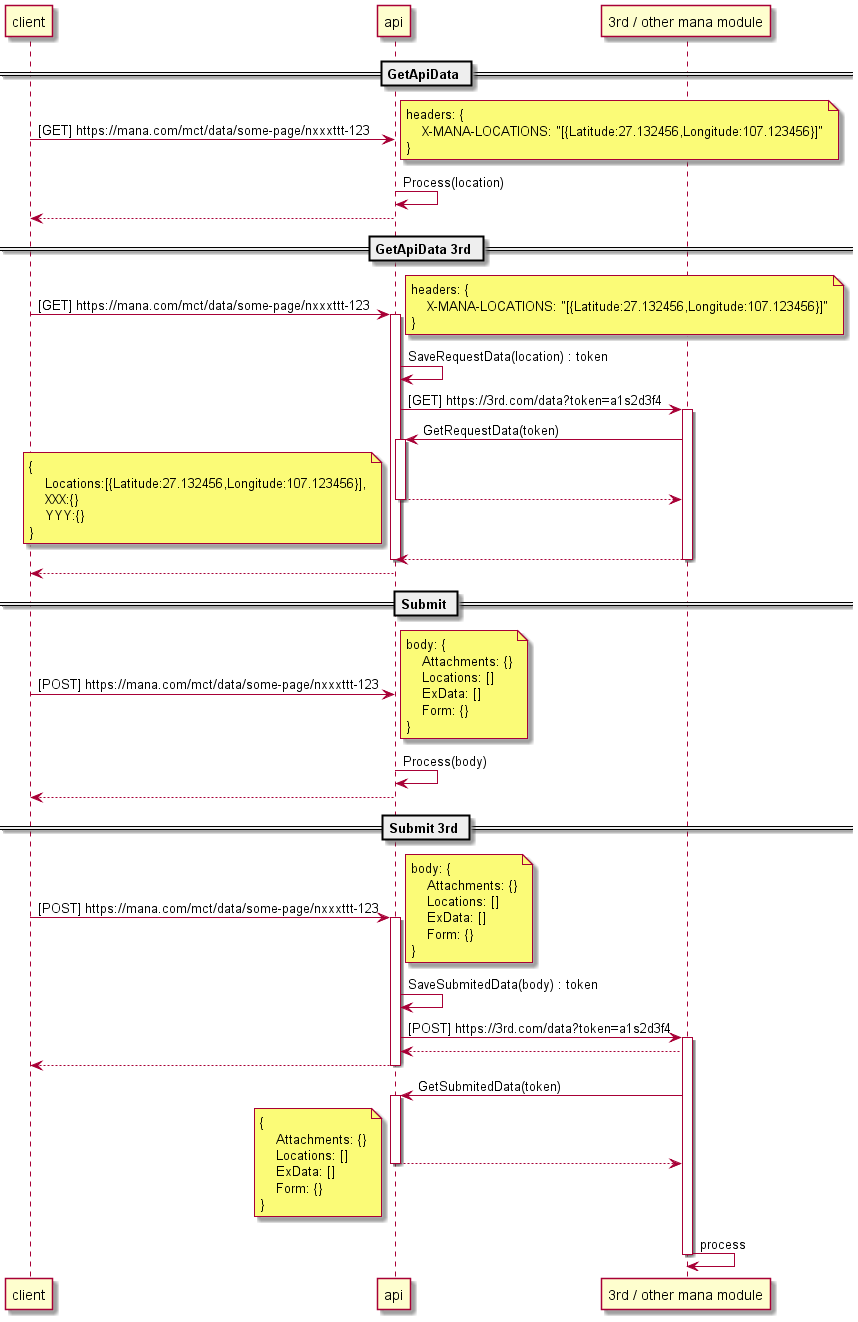
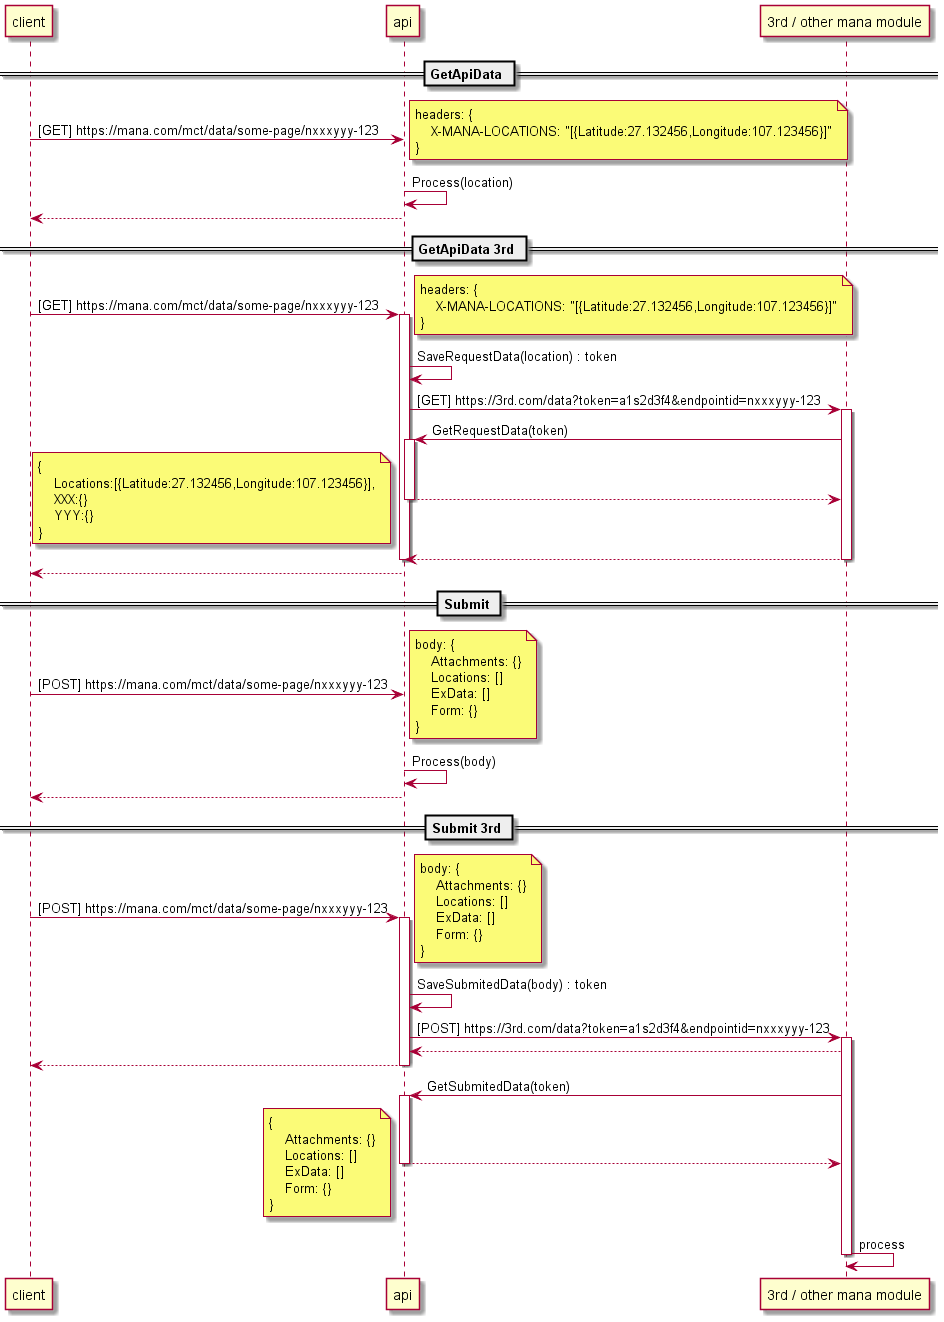
ManaRequestHeader

diff --git a/ManaRequestBody/try-header.md b/ManaRequestBody/try-header.md
@@ -1,0 +1,175 @@
+# Get method
+
+## 1. แยกแต่ละ field
+
+### Request
+```
+GET https://localhost:44332/api/values/sep
+Latitude: 1.111
+Longitude: 1.111
+Latitude: 1.222
+Longitude: 1.222
+```
+
+### API & Model
+```c#
+[HttpGet("sep1")]
+public IActionResult Seperate1([FromHeader] GeoLocationSep locations)
+//public IActionResult Seperate1([FromHeader] double[] Latitude, [FromHeader] double[] Longitude)
+{
+    return Ok();
+}
+public class GeoLocationSep
+{
+    [FromHeader]
+    public double[] Latitude { get; set; }
+    [FromHeader]
+    public double[] Longitude { get; set; }
+}
+```
+
+### pros and cons
+- field แยก
+- ลำดับ + ความหมายไม่ชัดเจน
+- ถ้าทำงานกับ gps 2 อัน ส่วนที่บอกว่า Latitude คู่กับ Longitude ไหนจะไม่ชัดเจน
+
+## 2. แยกแต่ละ field ใช้เลขกำกับ
+
+### Request
+```
+GET https://localhost:44332/api/values/sep2
+Latitude1: 1.111
+Longitude1: 1.111
+Latitude2: 1.222
+Longitude2: 1.222
+```
+### API & Model
+```c#
+[HttpGet("sep2")]
+public IActionResult Seperate2(
+    [FromHeader] string Latitude1, [FromHeader] string Longitude1, 
+    [FromHeader] string Latitude2, [FromHeader] string Longitude2)
+{
+    return Ok();
+}
+```
+
+### pros and cons
+- field แยกชัดเจน
+- parameter ที่ api รวมเป็น class ไม่ได้ เลยดูรก
+
+## 3. lat&lon array
+
+### Request
+```
+GET https://localhost:44332/api/values/sep2
+location1: 10.111,107.111
+location2: 11.222,108.222
+```
+
+### API & Model
+```c#
+[HttpGet("latlonarray")]
+public IActionResult LatLonArray([FromHeader] GeoLocationSep2 LocationSep2)
+{
+    return Ok();
+}
+public class GeoLocationSep2
+{
+    [FromHeader]
+    public double[] Location1 { get; set; }
+    [FromHeader]
+    public double[] Location2 { get; set; }
+}
+```
+
+### pros and cons
+- field แยกชัดเจน
+- parameter รวมเป็น class ได้
+
+## 4. Manual deserialize
+
+### Request
+```
+GET https://localhost:44332/api/values
+X-MANA-LOCATIONS: [{"Latitude": 1.123,"Longitude": 1.123},{"Latitude": 1.222,"Longitude": 1.222}]
+EndpointId: nxxxyyy-123
+```
+
+### API & Model
+```c#
+[HttpGet]
+public IActionResult Index([FromHeader] ManaRequestHeader locations)
+{
+    return Ok();
+}
+public class ManaRequestHeader
+{
+    public GeoLocation[] Locations { get => JsonSerializer.Deserialize<GeoLocation[]>(_locations ?? "{}"); }
+    [FromHeader(Name = "X-MANA-LOCATIONS")]
+    public string _locations { get; set; }
+    [FromHeader]
+    public string EndpointId { get; set; }
+}
+public class GeoLocation
+{
+    public double Latitude { get; set; }
+    public double Longitude { get; set; }
+}
+```
+
+### pros and cons
+- deserialize ข้อมูลแล้วใช้งานได้เลย
+- อาจจะไม่ตรงกับวิธีการใช้ header จริงๆ?
+- ถ้าใช้ class ตามตัวอย่าง จะสามารถรับ header อื่นได้ด้วย
+
+# Post method
+
+### Request
+```
+POST https://localhost:44332/api/values
+X-MANA-LOCATIONS: [{"Latitude": 1.123,"Longitude": 1.123},{"Latitude": 1.222,"Longitude": 1.222}]
+content-type: application/json
+
+{
+    "Attachments": "Some file",
+    "ExData": {
+        "quantity": "1" ,
+        "employeeid": "a1s2d3f6g5h4" 
+    },
+    "Form": {
+        "Name":"John"
+    }
+}
+
+```
+
+### API & Model
+```c#
+[HttpPost]
+public IActionResult Index([FromBody] ManaRequestBody<SomeForm, DeliveryLocation> body)
+{
+    return Ok();
+}
+public class DeliveryLocation : GeoLocation
+{
+    public string Remark { get; set; }
+    public string PhoneNumber { get; set; }
+}
+public class ManaRequestBody<T, TL>
+{
+    public string Attachments { get; set; }
+    public IDictionary<string, string> ExData { get; set; }
+    public T Form { get; set; }
+}
+public class ManaRequestBody<T, TL> : ManaRequestBody<T>
+    where TL : GeoLocation
+{
+    public TL[] Locations { get; set; }
+}
+public class SomeForm
+{
+    public string Name { get; set; }
+}
+```
+

diff --git a/ManaRequestBody/summary.md b/ManaRequestBody/summary.md
@@ -1,15 +1,52 @@
 # Mana request body
 ## Topic
-- ❓Mobile data collect
+- ✅Mobile data collect
 - ✅Models
 - ✅Mobile and API communications
 - ❓3rd hook
-- ❓3rd MContent
+- ❌3rd MContent
 
 ---
 
-## ❓Mobile data collect
-- by design
+## ✅Mobile data collect
+
+### Locations
+- ✅ GPS section แบบปุ่ม map icon
+    - page
+        - delivery เปลี่ยนที่อยู่ (m12) > mana page
+        - profile เพิ่ม/แก้ไข ที่อยู่
+        - BizAccount แก้ไข ที่อยู่
+    - field
+        - lat
+        - lon
+- ✅ GPS section แบบปุ่ม แก้ไข
+    - page
+        - delivery เลือกร้าน (m2) > 3rd page
+        - delivery cart (m7) > mana page
+    - field
+        - lat
+        - lon
+        - remark
+        - phone
+- ❌ Address แบบปุ่ม แก้ไข จาก html
+    - page
+        - restaurant consent
+    - แก้ไขที่อยู่แล้วข้อมูล fill ใน form > ไม่เกี่ยวกับส่วน GPS section ที่จะส่งผ่าน header
+- ❌ GPS แบบกดเลือกจาก html
+    - page
+        - delivery consent
+    - เลือกปักหมุดแล้วข้อมูล fill ใน form > ไม่เกี่ยวกับส่วน GPS section ที่จะส่งผ่าน header
+- ❓ ในอนาคต
+    - logistic
+    - support address field
+
+### Attachments
+- AccessInfo
+
+### ExData
+- quantity
+
+### Form
 
 ## ✅Models
 ![](out/manarequestbody/ManaRequestBody.png)
@@ -17,9 +54,18 @@
 ## ✅Mobile and API communications
 - GetDataApi
     - ส่ง gps ไปที่ api ผ่าน headers
-    - response model แล้วแต่ข้อมูลที่ API ส่งกลับมา
+        - ไม่ส่งผ่าน query string เพราะควรมีการปกปิดข้อมูลนี้
+    - รองรับแค่ lat, lon
+    - response model : แล้วแต่ข้อมูลที่ API ส่งกลับมา
 - Submit data
     - ส่ง gps (รวมถึงข้อมูลอื่นๆ) ไปที่ api ผ่าน ManaRequestBody
+        - ไม่ส่งผ่าน query string เพราะควรมีการปกปิดข้อมูลนี้
+        - ไม่ส่งผ่าน header
+            - จะต้องส่ง remark, phone, address ด้วย เพื่อเลี่ยง header maximum length
+            - ถ้าต้องส่ง gps ผ่าน header แล้วส่ง remark, phone, address ผ่าน body > จะต้องมีขั้นตอนการ mapping เพิ่ม
+        - ❓ ส่ง gps ผ่านทั้ง header และ body
+    - รองรับ lat, lon, remark, phone
+        - ในอนาคตรองรับ address
     - response model : ClientResponse
 
 ### Issues
@@ -32,6 +78,19 @@
 
 
 ## ❓3rd hook
+
+- get
+    - รอ response
+- post
+    - รอ response
+        - cart hook
+        - checkout hook
+    - ไม่รอ response
+        - add product hook
+        - submit form hook
+    - ไม่รอ response + track status
+        - payment hook
+- 
 
 ![](out/sequence-api/sequence.png)
 
